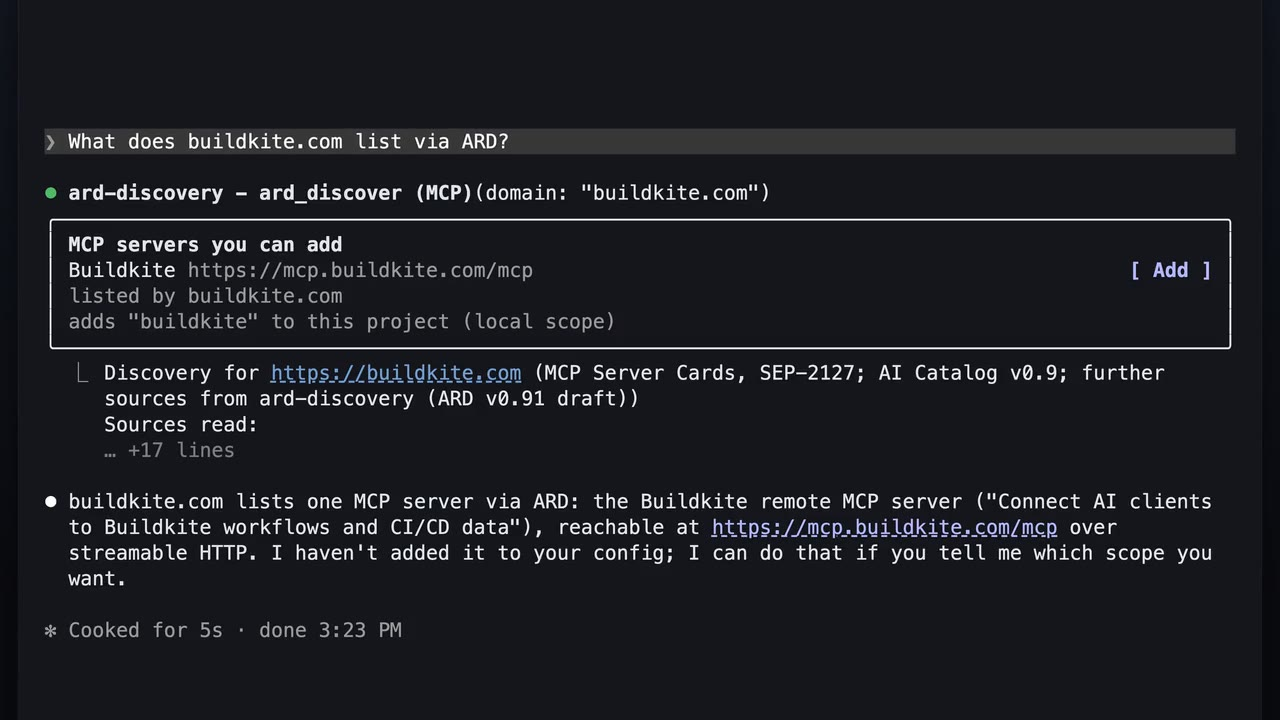
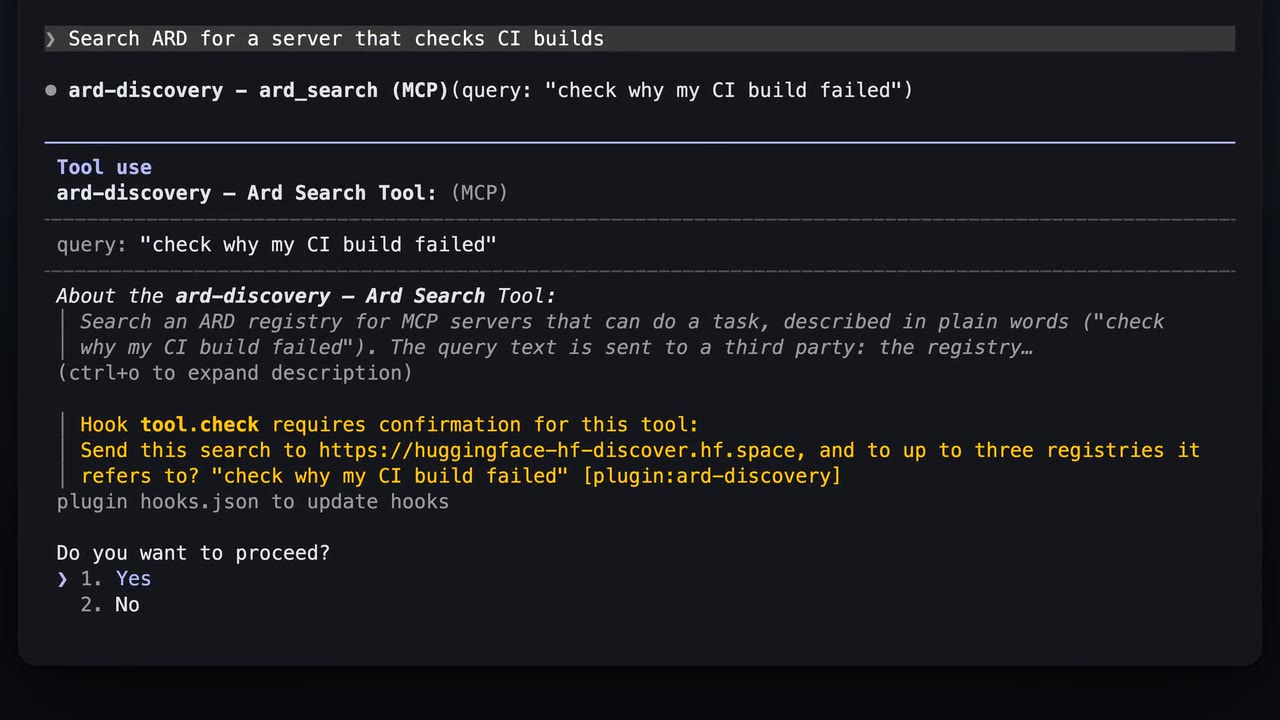
Site: the round-5 launch videos, with WebP posters and a 720p launch video
launch/video's round 5 (17:37) replaces round 4: the 45 s master and all
five cuts. Events now watches a Cloudflare Worker and wakes when it
throws; Apps adds a monitor drawn in text where a terminal shows no
pictures; ARD shows discovery, then a registry search asked about first.
- Captions and alt text describe the new footage. Events says Cloudflare's
  MCP server ran locally, with a fix its hosted server lacks
  (cloudflare/mcp#438); ARD says the default registry returned no servers.
- Posters: each video's poster frame as WebP at the widths pages ask for
  (public/media/p/, 9 to 79 KB; the launch poster was a 160 KB JPEG),
  made losslessly from the frame with cwebp. The JPEGs stay, for links.
- launch-720.mp4 (4.6 MB) beside the 1080p file (8.2 MB), for phones.
- media.mjs: "small" encodes the 720p version, "posters" makes the WebP
  set; a build checks they are there.

Changed region(s): [[0.0312, 0.0306, 0.9688, 0.8861], [0.875, 0.3667, 0.9688, 0.3972], [0.9375, 0.3056, 0.9688, 0.3361]]

diff --git a/site/guide/apps.md b/site/guide/apps.md
@@ -17,8 +17,8 @@ Apps (`io.modelcontextprotocol/ui`) as published in `specification/2026-01-26`
 
 <Recording
   cut="apps"
-  alt="In Claude Code, Play DOOM opens the game from the hosted arcade server under the tool call, and it is played with clicks and keys. Then a system monitor app draws a live CPU chart; a 3D torus knot Claude writes renders and turns when dragged; and in a terminal without pictures, the same scene is drawn in character cells."
-  caption="A real session (24 s; waits sped up, with a badge saying how fast): DOOM from the hosted arcade server, played with clicks and keys; a system monitor whose chart updates live; a 3D scene Claude writes, turned by dragging; and the same scene in character cells."
+  alt="In Claude Code, Play DOOM opens the game from the hosted arcade server under the tool call, and it is played with clicks and keys. A system monitor app draws a live CPU chart, and in a terminal with no image support it draws the chart in text. Then a 3D torus knot renders inline and turns when dragged."
+  caption="A real session (25 s; waits sped up): DOOM from the hosted arcade server, played with clicks and keys; a system monitor, drawn as a picture and, where the terminal shows none, in text; and a 3D scene, turned by dragging."
 />
 
 ## Install

diff --git a/site/guide/events.md b/site/guide/events.md
@@ -13,8 +13,8 @@ Final), which Claude Code does not support by itself yet.
 
 <Recording
   cut="events"
-  alt="One sentence to Claude Code, Give me a demo button, starts a watch and gives a private button page, and the session goes idle. On the page, ship it is typed and Press is pressed; the idle session wakes by itself, reads the event and says the message was ship it."
-  caption="A real session against the hosted demo server (21 s; waits sped up, with a badge saying how fast). One sentence gives a private button page and a watch, and the session goes idle. A press on the page wakes it."
+  alt="In Claude Code, asked to watch a Worker on Cloudflare and say what breaks, Claude starts a watch through Cloudflare's MCP server, and the session goes idle. When the Worker throws an error, the idle session wakes by itself, reads the event and says what broke: a SyntaxError in the Worker."
+  caption="A real session (23 s; waits sped up, with a badge saying how fast). Cloudflare's MCP server was run locally, with a fix its hosted server does not have yet (cloudflare/mcp#438); the Worker's error was set off from outside."
 />
 
 ## Install

diff --git a/site/guide/ard.md b/site/guide/ard.md
@@ -17,8 +17,8 @@ servers in two ways:
 
 <Recording
   cut="ard"
-  alt="In Claude Code, the question What does buildkite.com list via ARD? reads buildkite.com's own listing, and a picker shows the Buildkite MCP server with an Add button. Claude says buildkite.com lists one MCP server and has not added it."
-  caption="A real session (15 s, ard-discovery 0.1.3): buildkite.com's own listing, found from its domain. A domain lookup sends no query to a registry."
+  alt="In Claude Code, What does buildkite.com list via ARD? shows Buildkite's MCP server with an Add button. Then a search of an ARD registry for a server that checks CI builds: Claude Code first asks whether to send the query to the registry and up to three it refers to, and after Yes the result says where the query went."
+  caption="A real session (21 s): buildkite.com's own listing, found from its domain, then a registry search, asked about first. The default registry returned no MCP servers for this query."
 />
 
 It only finds. Each Server Card it finds goes to

diff --git a/site/guide/skills.md b/site/guide/skills.md
@@ -14,8 +14,8 @@ Final), which Claude Code does not support by itself yet.
 
 <Recording
   cut="skills"
-  alt="In Claude Code, /mcp-skills lists the 25 skills Hugging Face's MCP server serves. Asked to use huggingface-local-models for a 16 GB Mac, Claude asks to load it and Claude Code asks once for approval; the skill and two of its files are read from the server, and Claude answers: a 7 to 9B model at Q4_K_M, with llama.cpp."
-  caption="A real session against Hugging Face's public MCP server (20 s). Waits are sped up, with a badge saying how fast."
+  alt="In Claude Code, /mcp-skills lists the skills Hugging Face's MCP server serves. Asked to use huggingface-local-models for a 16 GB Mac, Claude asks to load it and Claude Code asks once for approval; the skill and its files are read from the server, and Claude answers from it."
+  caption="A real session against Hugging Face's public MCP server (21 s). Waits are sped up, with a badge saying how fast."
 />
 
 ## Install

diff --git a/site/guide/server-cards.md b/site/guide/server-cards.md
@@ -29,7 +29,7 @@ does not support by itself yet:
 <Recording
   cut="server-cards"
   alt="In Claude Code, the question What MCP servers does neon.com publish? lists Neon and Neon Docs from neon.com's own catalog, each with an Add button. Add is pressed on Neon Docs, which is marked added, with a note to run /mcp to connect or sign in."
-  caption="A real session (16 s, mcp-server-cards 0.1.1): neon.com's two servers, found from its domain. Add on Neon Docs writes it to Claude Code's config; connecting is left to /mcp."
+  caption="A real session (16 s): neon.com's two servers, found from its domain. Add on Neon Docs writes it to Claude Code's config; connecting is left to /mcp."
 />
 
 ## Install
